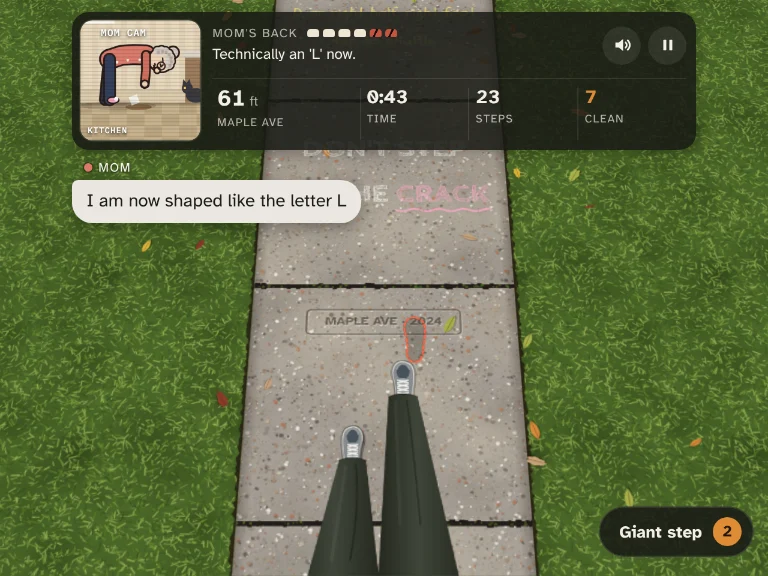
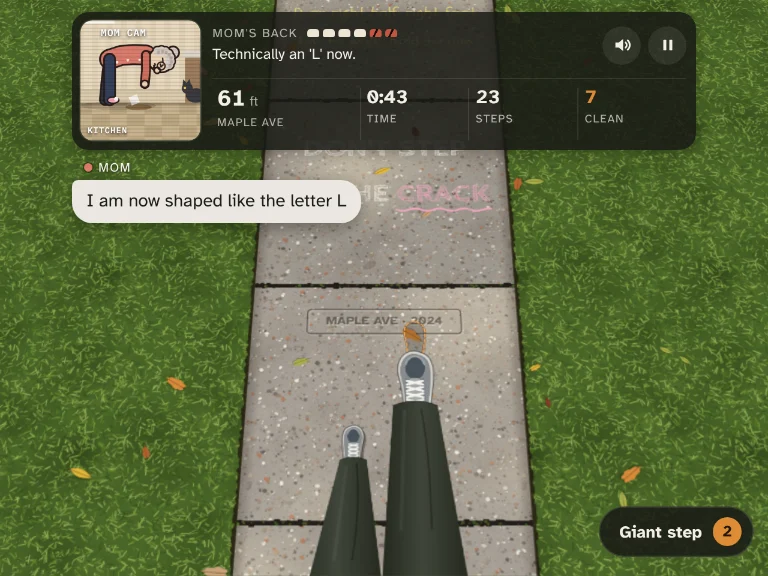
Crack: tap to walk, hold to aim; per-side touch; bigger lifted foot
A quick tap now takes a normal stride so alternating taps walk again;
holding still aims from where the foot is. Swing times are about a
quarter shorter, and a foot behind the other one moves faster. Each
side of the screen is tracked on its own, so letting go of a side
always drops that foot, and presses that overlap wait their turn.
Giant step mid-swing only comes from the button (or G).

Claude-Session: https://claude.ai/code/session_017r6t6W9FZXM4AKtKkuV23G

diff --git a/site/dont-step-on-the-crack/game.js b/site/dont-step-on-the-crack/game.js
@@ -15,14 +15,15 @@ const coarse=matchMedia('(pointer: coarse)').matches;
 /* ---------- world units: 1 unit = 1 ft = one shoe length ---------- */
 const S=5, WS=5, R=0.18, DMIN=0.45, DMAX=2.25, LAT=1.7, MAXHP=6, LIFT=1.0;
 const WOB=0.85;                                  // seconds of wobble before the foot snaps back
+const TAP=0.16, TAP_STRIDE=1.35, TAP_GIANT=2.7;  // let go within TAP seconds and the foot takes a normal stride instead
 const GIANT={dmax:3.6,lat:2.2}, GIANT_MAX=3, STREAK_EVERY=10;
 const STAGE_START=[0,6,14,24,34];
 const STAGES=[
-  {name:'Maple Ave',  note:'fresh pour',      stamp:'MAPLE AVE · 2024',  T:1.05},
-  {name:'Linden St',  note:'hairline cracks', stamp:'LINDEN ST · 1998',  T:0.9},
-  {name:'Oak St',     note:'root heave',      stamp:'OAK ST · 1971',     T:0.78},
-  {name:'Old Mill Rd',note:'old flagstone',   stamp:'OLD MILL RD · 1923',T:0.68},
-  {name:'Quarry Ln',  note:'condemned',       stamp:'QUARRY LN · 1938',  T:0.6}
+  {name:'Maple Ave',  note:'fresh pour',      stamp:'MAPLE AVE · 2024',  T:0.8},
+  {name:'Linden St',  note:'hairline cracks', stamp:'LINDEN ST · 1998',  T:0.7},
+  {name:'Oak St',     note:'root heave',      stamp:'OAK ST · 1971',     T:0.6},
+  {name:'Old Mill Rd',note:'old flagstone',   stamp:'OLD MILL RD · 1923',T:0.52},
+  {name:'Quarry Ln',  note:'condemned',       stamp:'QUARRY LN · 1938',  T:0.46}
 ];
 const MOMTXT=['',
   'Is technically flooring now.',
@@ -44,7 +45,7 @@ function mulberry32(a){return function(){a|=0;a=a+0x6D2B79F5|0;let t=Math.imul(a
 const clamp=(v,a,b)=>v<a?a:v>b?b:v;
 const slabIdx=d=>Math.floor(d/S);
 function stageOf(i){let s=0;for(let j=1;j<5;j++) if(i>=STAGE_START[j]) s=j;return s;}
-function swingTime(i){const s=stageOf(i);return s<4?STAGES[s].T:Math.max(0.45,0.6-(i-STAGE_START[4])*0.004);}
+function swingTime(i){const s=stageOf(i);return s<4?STAGES[s].T:Math.max(0.36,0.46-(i-STAGE_START[4])*0.003);}
 
 /* ---------- geometry ---------- */
 function psd(px,py,ax,ay,bx,by){const dx=bx-ax,dy=by-ay,l=dx*dx+dy*dy;let t=l?((px-ax)*dx+(py-ay)*dy)/l:0;t=t<0?0:t>1?1:t;const qx=ax+t*dx-px,qy=ay+t*dy-py;return Math.sqrt(qx*qx+qy*qy);}
@@ -431,7 +432,7 @@ function drawChalk(g,c,sl,d0,tx,ty){
   }
   if(sl.chalk==='howto'){
     let fs=0.46*K; const font=f=>`${f}px "Schoolbell", cursive`;
-    const lines=coarse?['left side: left foot','right side: right foot','tap to shuffle']:['A or left half: left foot','D or right half: right foot','tap to shuffle'];
+    const lines=coarse?['left side: left foot','right side: right foot','tap to walk, hold to aim']:['A or left half: left foot','D or right half: right foot','tap to walk, hold to aim'];
     h.font=font(fs); const w=Math.max(...lines.map(s=>h.measureText(s).width)); fs*=Math.min(1,4.2*K/w); h.font=font(fs);
     h.textAlign='center'; h.fillStyle='#f4e27a';
     lines.forEach((s,j)=>h.fillText(s,tx(2.5),ty(d0+3.75-j*0.95)));
@@ -507,8 +508,12 @@ function drawFeet(){
       x=sw.dx+(sw.wob?Math.sin(performance.now()*0.075)*0.035:0); d=sw.dd; lift=sw.lift;
       drawOutline(sw.tx,sw.td,sw.u,air.side,sw.giant,sw.wob>0);
     }
+    else if(drop.tap){   // a tap step: one quick arc from where the foot was to a stride ahead
+      const e=Math.min(1,drop.t/drop.dur), s=e*e*(3-2*e);
+      x=drop.fx+(drop.x-drop.fx)*s; d=drop.fd+(drop.d-drop.fd)*s; lift=Math.max(drop.fl*(1-e),Math.sin(Math.PI*e)*(drop.giant?0.9:0.6));
+    }
     else {const e=Math.min(1,drop.t/drop.dur), ee=e*e; x=drop.fx+(drop.x-drop.fx)*ee; d=drop.fd+(drop.d-drop.fd)*ee; lift=drop.fl*(1-ee);}
-    const sc=1+0.12*lift, yy=Y(d-LIFT*lift);
+    const sc=1+0.7*lift, yy=Y(d-LIFT*lift);
     drawShoe(X(x),yy,sc,air.side,1-lift);
     drawLeg(X(x),yy,sc,hipX(air),hy);
   }
@@ -1247,7 +1252,32 @@ let phase='idle', feet=[], front=null, back=null, sw=null, drop=null, hp=MAXHP, 
 let streak=0, runStreak=0, giant=1, armed=false, tStart=null, tEnd=null, lastTs='', runResult=null;
 let best=0, bestStreak=0, bestAtStart=0, bestStreakAtStart=0, newBestShown=false;
 try{best=parseInt(localStorage.getItem('dsotc-best'),10)||0; bestStreak=parseInt(localStorage.getItem('dsotc-best-streak'),10)||0;}catch(_){}
-const input={down:false,latch:0,id:null,key:null,lastX:0,keys:{l:false,r:false}};
+// Each side of the screen (and A / D) belongs to one foot. A press while the other foot is
+// still up waits its turn, so thumbs can overlap; a foot comes down as soon as its own side is let go.
+const input={ptrs:new Map(),keySide:new Map(),q:[],bot:0,keys:{l:false,r:false}};
+function held(side){
+  if(input.bot===side) return true;
+  for(const p of input.ptrs.values()) if(p.side===side) return true;
+  for(const s of input.keySide.values()) if(s===side) return true;
+  return false;
+}
+function press(side){
+  if(phase==='swing'&&sw.foot.side===side) return;          // that foot is already up
+  input.q=input.q.filter(p=>p.side!==side); input.q.push({side,up:0});
+}
+function release(side){
+  if(held(side)) return;
+  const t=performance.now()/1000;
+  for(const p of input.q) if(p.side===side&&!p.up) p.up=t;
+}
+function clearInput(){input.ptrs.clear(); input.keySide.clear(); input.q=[]; input.bot=0; input.keys.l=input.keys.r=false;}
+// Space / W / Up step with whichever foot is due next
+function nextSide(){
+  if(phase==='swing') return -sw.foot.side;
+  if(phase==='drop'&&!drop.snap) return -drop.foot.side;
+  if(input.q.length) return -input.q[input.q.length-1].side;
+  return back.side;
+}
 let nextBird=0, nextBeat=0, nextAmbient=0, lastStepAt=0, idleTexted=false, pausedAt=0;
 const elapsed=now=>tStart===null?0:((tEnd===null?now:tEnd)-tStart);
 
@@ -1260,7 +1290,7 @@ function reset(){
   phase='idle'; sw=null; drop=null; hp=MAXHP; steps=0; camD=front.d; bodyX=2.5; lastStage=0; hitFx=[]; puffs=[]; shake=0;
   streak=0; runStreak=0; giant=2; armed=false; tStart=null; tEnd=null; lastTs=''; timeEl.textContent='0:00';
   bestAtStart=best; bestStreakAtStart=bestStreak; newBestShown=false;
-  input.latch=0; input.down=false; input.id=null; input.key=null;
+  clearInput();
   kinks=[]; curPose=clonePose(POSES[6]); camFlinch=0; xrayUntil=0; xrayJ=-1; clearTexts(); idleTexted=false;
   dadA.on=false; dogReset(); chatStats.mom=0;
   lastStepAt=performance.now()/1000; nextAmbient=lastStepAt+30; bot.active=false; bot.next=0; ambientReset(lastStepAt);
@@ -1277,7 +1307,8 @@ function toggleGiant(){
   armed=!armed; syncGiant();
   if(armed){say('Mother, may I?','Yes, you may.',1100); sfx.arm();} else sfx.disarm();
 }
-// act on touch-down: while one thumb holds a foot, phones often never turn a second finger's tap into a click
+// act on touch-down: while one thumb holds a foot, phones often never turn a second finger's tap into a click.
+// stopPropagation keeps the press from also counting as the right side of the screen.
 giantBtn.addEventListener('pointerdown',e=>{e.stopPropagation(); e.preventDefault(); toggleGiant();});
 giantBtn.addEventListener('click',e=>{if(!e.detail) toggleGiant();});
 
@@ -1293,13 +1324,14 @@ function clampSw(){
   sw.x=clamp(sw.x,Math.max(R+0.05,o.x-sw.lat),Math.min(WS-R-0.05,o.x+sw.lat));
   sw.ex=sideClamp(sw.x,sw.ahead);
 }
-// the swing starts wherever the foot is, so a quick tap is a small shuffle step
+// A held foot starts wherever it is and slides forward for aiming (quicker while it's still behind the other foot).
+// Let go within TAP seconds and it's a tap instead: the foot takes a normal stride, so quick alternating taps walk.
 function beginSwing(side,now){
   const f=side?feet.find(q=>q.side===side):back, other=f===feet[0]?feet[1]:feet[0];
   const g=armed&&giant>0&&mode==='play', dmax=g?GIANT.dmax:DMAX;
   const start=clamp(f.d-other.d,-1.3,dmax-0.4);
   phase='swing';
-  sw={foot:f,other,t:0,u:0,start,dmin:DMIN,dmax,lat:g?GIANT.lat:LAT,giant:g,x:f.x,ex:f.x,ahead:start,tx:f.x,td:other.d+start,dx:f.x,dd:f.d,lift:0,warned:false,wob:0,stopWob:null};
+  sw={foot:f,other,t:0,u:0,dmin:DMIN,dmax,lat:g?GIANT.lat:LAT,giant:g,x:f.x,ex:f.x,ahead:start,tx:f.x,td:other.d+start,dx:f.x,dd:f.d,lift:0,warned:false,full:-1,wob:0,stopWob:null,upgraded:false};
   clampSw(); sfx.lift();
   if(mode==='play'&&tStart===null){tStart=now; momText(T.open);}
 }
@@ -1307,9 +1339,21 @@ function beginSwing(side,now){
 function upgradeSwing(){
   const was=sw.wob>0;
   stopWobble();
-  sw.giant=true; sw.dmax=GIANT.dmax; sw.lat=GIANT.lat; sw.start=sw.ahead; sw.t=0; sw.wob=0; sw.warned=false;
+  sw.giant=true; sw.dmax=GIANT.dmax; sw.lat=GIANT.lat; sw.full=-1; sw.wob=0; sw.warned=false; sw.upgraded=true;
   armed=false; syncGiant();
   sayNow('Giant step!',was?'Saved yourself.':'Mother, may I? Yes.',1000); sfx.arm();
+}
+// the tap: a normal stride ahead of the other foot, keeping roughly to its own lane
+function tapStep(){
+  stopWobble();
+  const f=sw.foot, o=sw.other, side=f.side;
+  const ahead=Math.min(sw.dmax-0.1,Math.max(sw.ahead,sw.giant?TAP_GIANT:TAP_STRIDE));
+  let x=side<0?clamp(sw.ex,o.x-1.3,o.x-0.6):clamp(sw.ex,o.x+0.6,o.x+1.3);
+  x=clamp(x,R+0.05,WS-R-0.05);
+  const d=o.d+ahead, dist=Math.hypot(x-sw.dx,d-sw.dd);
+  drop={foot:f,x,d,t:0,dur:0.09+dist*0.022,fx:sw.dx,fd:sw.dd,fl:sw.lift,giant:sw.giant,tap:true};
+  if(sw.giant){giant--; armed=false; syncGiant();}
+  phase='drop';
 }
 function stopWobble(){if(sw&&sw.stopWob){sw.stopWob(); sw.stopWob=null;}}
 function plant(){
@@ -1452,7 +1496,7 @@ function startGame(){
 function pauseGame(){
   if(mode!=='play') return;
   mode='paused'; pausedAt=performance.now()/1000;
-  input.down=false; input.id=null; input.key=null; input.latch=0;
+  clearInput();
   if(phase==='swing'){stopWobble(); phase='idle'; sw=null;}   // a lifted foot just goes back down
   sfx.click(); showScreen(pauseEl,true); releaseWake();
 }
@@ -1502,11 +1546,11 @@ function botUpdate(now){
     }
     if(!pickd) pickd={x:clamp(other.x+side*0.7,R+0.15,WS-R-0.15),ahead:0.95};
     bot.tx=pickd.x; bot.ta=pickd.ahead; bot.active=true;
-    input.latch=side; input.down=true;
+    input.bot=side; press(side);
   }
   if(phase==='swing'&&bot.active){
     sw.x=bot.tx;
-    if(sw.ahead>=bot.ta-0.01){input.down=false; bot.active=false; bot.next=now+0.35+Math.random()*0.45;}
+    if(sw.ahead>=bot.ta-0.01&&sw.t>=TAP){input.bot=0; bot.active=false; bot.next=now+0.35+Math.random()*0.45;}
   }
 }
 
@@ -1514,23 +1558,20 @@ function botUpdate(now){
 view.addEventListener('pointerdown',e=>{
   if(mode!=='play'||e.target.closest('button')||e.target.closest('.screen')||e.target.closest('#over')) return;
   if(e.pointerType==='mouse'&&e.button!==0) return;
-  // a second finger while a foot is in the air: giant step, which also saves a wobbling leg
-  if(input.id!==null&&e.pointerId!==input.id){if(phase==='swing') toggleGiant(); e.preventDefault(); return;}
-  if(input.id!==null||input.key) return;
   sfx.init();
-  const rect=view.getBoundingClientRect();
-  input.id=e.pointerId; input.lastX=e.clientX; input.down=true;
-  input.latch=(e.clientX-rect.left)<rect.width/2?-1:1;
+  const rect=view.getBoundingClientRect(), side=(e.clientX-rect.left)<rect.width/2?-1:1;
+  input.ptrs.set(e.pointerId,{side,lastX:e.clientX});
+  press(side);
   try{view.setPointerCapture(e.pointerId);}catch(_){}
   e.preventDefault();
 });
 view.addEventListener('pointermove',e=>{
-  if(e.pointerId!==input.id) return;
-  const dx=e.clientX-input.lastX; input.lastX=e.clientX;
-  if(phase==='swing'&&mode==='play') sw.x+=dx/K*1.25;
+  const p=input.ptrs.get(e.pointerId); if(!p) return;
+  const dx=e.clientX-p.lastX; p.lastX=e.clientX;
+  if(phase==='swing'&&mode==='play'&&sw.foot.side===p.side) sw.x+=dx/K*1.25;
 });
-const up=e=>{if(e.pointerId!==input.id) return; input.id=null; input.down=false;};
-view.addEventListener('pointerup',up); view.addEventListener('pointercancel',up);
+const up=e=>{const p=input.ptrs.get(e.pointerId); if(!p) return; input.ptrs.delete(e.pointerId); release(p.side);};
+for(const ev of ['pointerup','pointercancel','lostpointercapture']) view.addEventListener(ev,up);
 view.addEventListener('contextmenu',e=>e.preventDefault());
 window.addEventListener('keydown',e=>{
   const k=e.code, t=e.target, onBtn=t&&t.closest&&t.closest('button,a');
@@ -1546,38 +1587,47 @@ window.addEventListener('keydown',e=>{
   const footKey={KeyA:-1,KeyD:1,Space:0,KeyW:0,ArrowUp:0}[k];
   if(footKey!==undefined){
     e.preventDefault();
-    if(e.repeat||input.key||input.id!==null) return;
-    sfx.init(); input.key=k; input.down=true; input.latch=footKey||back.side;
+    if(e.repeat||input.keySide.has(k)) return;
+    sfx.init();
+    const side=footKey||nextSide(); input.keySide.set(k,side); press(side);
   }
   else if(k==='ArrowLeft'){e.preventDefault(); input.keys.l=true;}
   else if(k==='ArrowRight'){e.preventDefault(); input.keys.r=true;}
 });
 window.addEventListener('keyup',e=>{
   const k=e.code;
-  if(k===input.key){input.key=null; input.down=false;}
+  if(input.keySide.has(k)){const s=input.keySide.get(k); input.keySide.delete(k); release(s);}
   else if(k==='ArrowLeft') input.keys.l=false;
   else if(k==='ArrowRight') input.keys.r=false;
 });
-window.addEventListener('blur',()=>{input.down=false; input.id=null; input.key=null; input.keys.l=input.keys.r=false;});
+window.addEventListener('blur',()=>{
+  const sides=new Set([...[...input.ptrs.values()].map(p=>p.side),...input.keySide.values()]);
+  input.ptrs.clear(); input.keySide.clear(); input.keys.l=input.keys.r=false;
+  for(const s of sides) release(s);
+});
 
 /* ---------- loop ---------- */
 function update(dt,now){
   if(mode==='paused'){if(camFlinch>0) camFlinch=Math.max(0,camFlinch-dt*2.2); return;}
   if(mode==='title') botUpdate(now);
   ambientUpdate(dt,now); dadUpdate(dt); dogUpdate(dt,now);
-  if(phase==='idle'&&input.latch){const s=input.latch; input.latch=0; beginSwing(s,now);}
+  if(phase==='idle'&&input.q.length){
+    const t=performance.now()/1000;
+    input.q=input.q.filter(p=>!p.up||t-p.up<0.35);           // a tap that waited too long is dropped, not stepped
+    const p=input.q.shift(); if(p) beginSwing(p.side,now);
+  }
   if(phase==='swing'){
     const speed=(sw.dmax-sw.dmin)/(swingTime(slabIdx(front.d))*(sw.giant?1.3:1));
     sw.t+=dt;
-    const tReach=(sw.dmax-sw.start)/speed;
-    sw.ahead=Math.min(sw.dmax,sw.start+speed*sw.t); sw.u=(sw.ahead-sw.dmin)/(sw.dmax-sw.dmin);
+    sw.ahead=Math.min(sw.dmax,sw.ahead+speed*(sw.ahead<0?1.8:1)*dt); sw.u=(sw.ahead-sw.dmin)/(sw.dmax-sw.dmin);
+    if(sw.ahead>=sw.dmax&&sw.full<0) sw.full=sw.t;
     if(sw.u>=0.8&&!sw.warned){sw.warned=true; sfx.strain();}
     const kd=(input.keys.r?1:0)-(input.keys.l?1:0); if(kd) sw.x+=kd*2.6*dt;
     clampSw();
     let tx=sw.ex, td=sw.other.d+sw.ahead;
-    if(sw.t>tReach+0.08){            // past full reach: the leg wobbles, landing gets shaky
+    if(sw.full>=0&&sw.t>sw.full+0.08){   // past full reach: the leg wobbles, landing gets shaky
       if(!sw.wob) sw.stopWob=sfx.wobble(WOB);
-      sw.wob=sw.t-tReach-0.08+1e-6;
+      sw.wob=sw.t-sw.full-0.08+1e-6;
       const k=Math.min(1,sw.wob/WOB);
       tx=sideClamp(sw.ex+Math.sin(sw.wob*28)*(0.15+0.5*k),sw.ahead);
       td+=Math.sin(sw.wob*19+1)*0.14*k;
@@ -1586,7 +1636,8 @@ function update(dt,now){
     sw.tx=tx; sw.td=td;
     const k1=1-Math.exp(-dt*(sw.wob?34:26)), k2=1-Math.exp(-dt*18);
     sw.dx+=(tx-sw.dx)*k1; sw.dd+=(td-sw.dd)*k1; sw.lift+=(1-sw.lift)*k2;
-    if(!input.down) plant(); else if(sw.wob>WOB) snapBack();
+    if(!held(sw.foot.side)){if(sw.t<TAP&&!sw.upgraded) tapStep(); else plant();}
+    else if(sw.wob>WOB) snapBack();
   } else if(phase==='drop'){
     drop.t+=dt; if(drop.t>=drop.dur) land(now);
   }
@@ -1627,7 +1678,7 @@ function frame(t){
 
 /* ---------- boot ---------- */
 if(!coarse){
-  $('#howMove').innerHTML='Hold <b>A</b> or <b>D</b> (or either half of the screen) to lift that foot, let go to step. A quick tap is a little shuffle. Steer with the arrow keys or the mouse.';
+  $('#howMove').innerHTML='Tap <b>A</b> and <b>D</b> (or either half of the screen) in turn to walk. Hold one to lift that foot and aim it, let go to put it down. Steer with the arrow keys or the mouse.';
   $('#howGiant').innerHTML="Dawdle and the Kowalskis' chihuahua comes for your heels. Overreach and your leg wobbles: press <b>G</b> for a <b>giant step</b> to save it.";
   const li=document.createElement('li'); li.innerHTML='<i class="dot" style="background:rgba(243,239,230,.35)"></i><span>G giant step · Esc pauses · F full screen · M sound</span>';
   $('.t-how').appendChild(li);

diff --git a/site/dont-step-on-the-crack/index.html b/site/dont-step-on-the-crack/index.html
@@ -11,14 +11,14 @@
 <meta property="og:title" content="Don't Step on the Crack · JonniePeed Games">
 <meta property="og:description" content="Walk home without stepping on a crack. Every one you land on folds Mom up a little more, live on the Mom Cam. A game for phone or desktop.">
 <meta property="og:url" content="https://jonniesparkles.github.io/jonniepeed-games/dont-step-on-the-crack/index.html">
-<meta property="og:image" content="https://jonniesparkles.github.io/jonniepeed-games/assets/og/dont-step-on-the-crack.png?v=0b280834b9">
+<meta property="og:image" content="https://jonniesparkles.github.io/jonniepeed-games/assets/og/dont-step-on-the-crack.png?v=1c5bbe5bc0">
 <meta property="og:image:width" content="1200">
 <meta property="og:image:height" content="630">
 <meta property="og:image:alt" content="Looking down at your sneakers on a cracked sidewalk, with a security-camera view of Mom folded in half in her kitchen">
 <meta name="twitter:card" content="summary_large_image">
 <meta name="twitter:title" content="Don't Step on the Crack · JonniePeed Games">
 <meta name="twitter:description" content="Walk home without stepping on a crack. Every one you land on folds Mom up a little more, live on the Mom Cam. A game for phone or desktop.">
-<meta name="twitter:image" content="https://jonniesparkles.github.io/jonniepeed-games/assets/og/dont-step-on-the-crack.png?v=0b280834b9">
+<meta name="twitter:image" content="https://jonniesparkles.github.io/jonniepeed-games/assets/og/dont-step-on-the-crack.png?v=1c5bbe5bc0">
 <meta name="twitter:image:alt" content="Looking down at your sneakers on a cracked sidewalk, with a security-camera view of Mom folded in half in her kitchen">
 <link rel="icon" href="../favicon.ico?v=443c0101ac" sizes="any">
 <link rel="icon" type="image/png" href="../assets/favicon-32.png?v=569f3f592d">
@@ -281,9 +281,9 @@ html,body{height:100%;margin:0;overflow:hidden;background:var(--ground);color:va
           </div>
         </section>
         <ul class="t-how">
-          <li><i class="dot d1"></i><span id="howMove">Hold the <b>left or right side</b> to lift that foot, let go to step. A quick tap is a little shuffle.</span></li>
+          <li><i class="dot d1"></i><span id="howMove">Tap the <b>left and right sides</b> in turn to walk. Hold a side to lift that foot and aim it, let go to put it down.</span></li>
           <li><i class="dot d2"></i><span>Every crack, line or pothole you land on breaks one of Mom's vertebrae. Ten clean steps in a row and <b>Dad walks on her back</b> to fix one.</span></li>
-          <li><i class="dot d3"></i><span id="howGiant">Dawdle and the Kowalskis' chihuahua comes for your heels. Overreach and your leg wobbles: tap with your other thumb for a <b>giant step</b> to save it.</span></li>
+          <li><i class="dot d3"></i><span id="howGiant">Dawdle and the Kowalskis' chihuahua comes for your heels. Overreach and your leg wobbles: hit <b>Giant step</b> to save it.</span></li>
         </ul>
         <div class="t-act">
           <button id="start" class="btn primary" type="button">Start walking</button>
@@ -337,6 +337,6 @@ html,body{height:100%;margin:0;overflow:hidden;background:var(--ground);color:va
   </div>
 </div>
 <script src="audio.js?v=054737ce75"></script>
-<script src="game.js?v=bf19864c5a"></script>
+<script src="game.js?v=19e70addd1"></script>
 </body>
 </html>

diff --git a/site/index.html b/site/index.html
@@ -83,7 +83,7 @@ footer img{width:20px;height:22px;image-rendering:pixelated}
   <h2>Games</h2>
   <div class="grid">
     <a class="card pink" href="dont-step-on-the-crack/index.html">
-      <div class="thumb"><img src="assets/thumb-dont-step-on-the-crack.webp?v=9ca69c64b1" width="768" height="576" alt="Looking down at sneakers on a chalked sidewalk, with a Mom Cam showing Mom folded in half in her kitchen"></div>
+      <div class="thumb"><img src="assets/thumb-dont-step-on-the-crack.webp?v=0d7b6fb135" width="768" height="576" alt="Looking down at sneakers on a chalked sidewalk, with a Mom Cam showing Mom folded in half in her kitchen"></div>
       <div class="info">
         <span class="tag">Game · phone or desktop</span>
         <h3>Don't Step on the Crack</h3>

diff --git a/tools/og/make.py b/tools/og/make.py
@@ -35,7 +35,8 @@ GAMES = [
      # a few steps in: Mom bent into an L on the Mom Cam, texting about it, the next step mid-swing
      "startGame(); setTimeout(() => { hp=4; kinks=[{j:1},{j:3}]; curPose=clonePose(POSES[4]);"
      " steps=23; streak=7; tStart=performance.now()/1000-42; updateHUD(); document.getElementById('ft').textContent='61';"
-     " momText('I am now shaped like the letter L'); input.latch=1; input.down=true; }, 400);",
+     " momText('I am now shaped like the letter L'); }, 400);"
+     " setTimeout(() => { input.bot=1; press(1); }, 1250);",
      {"screenshot": True, "title_px": 40}),
 ]
 
